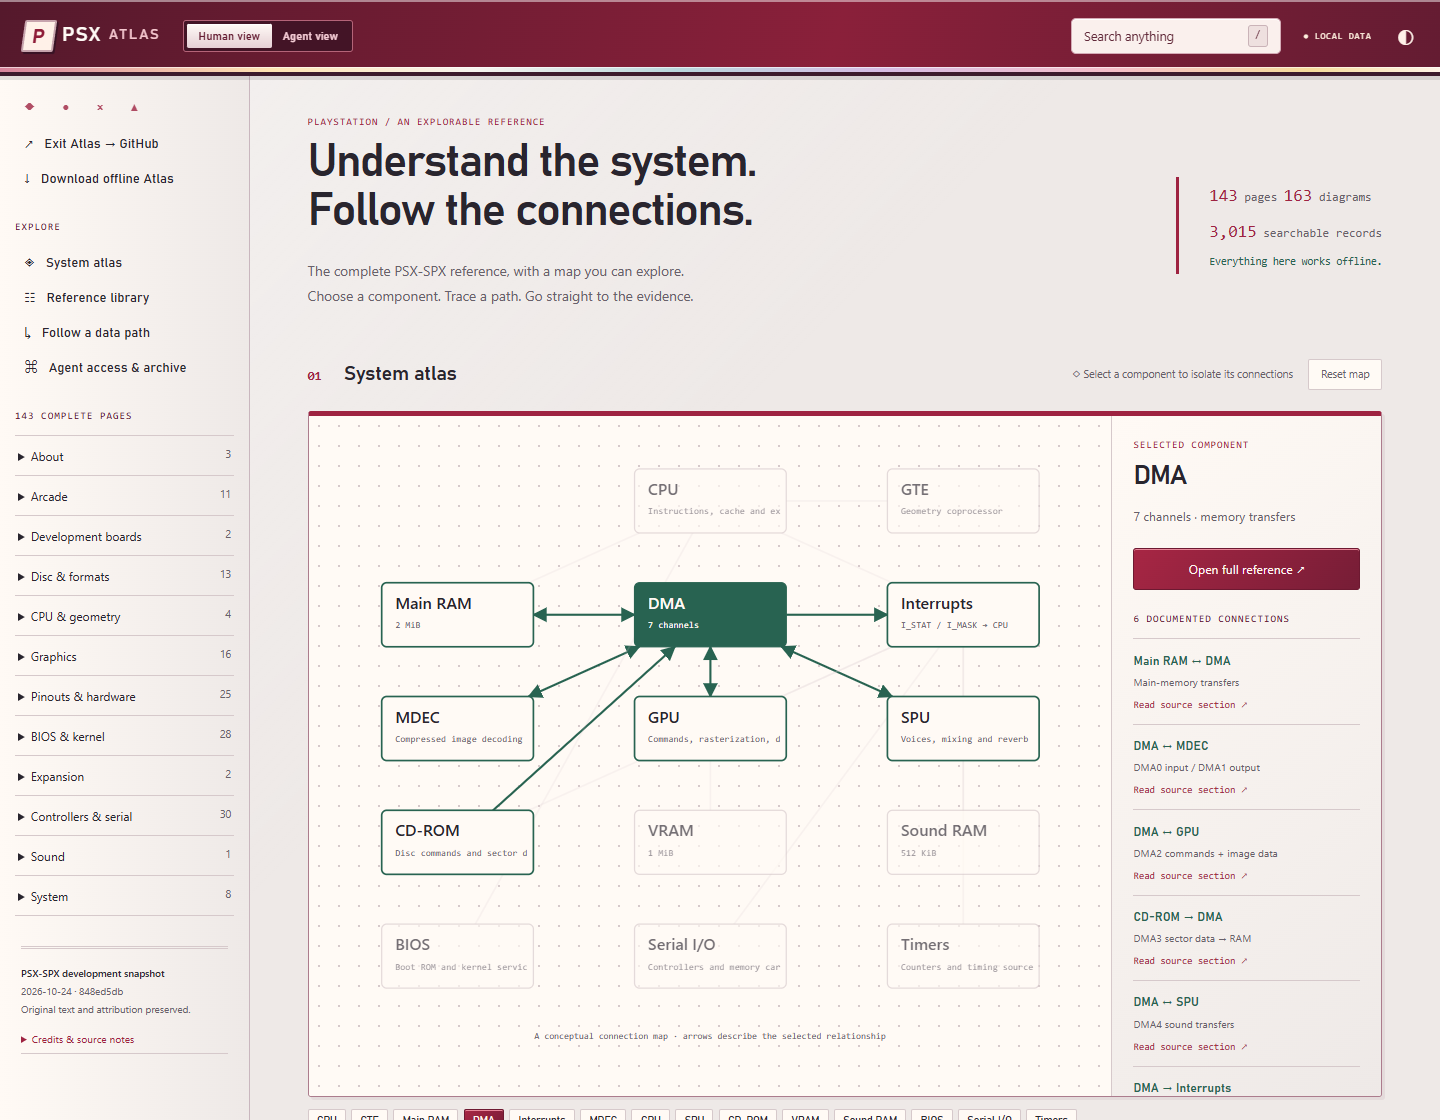
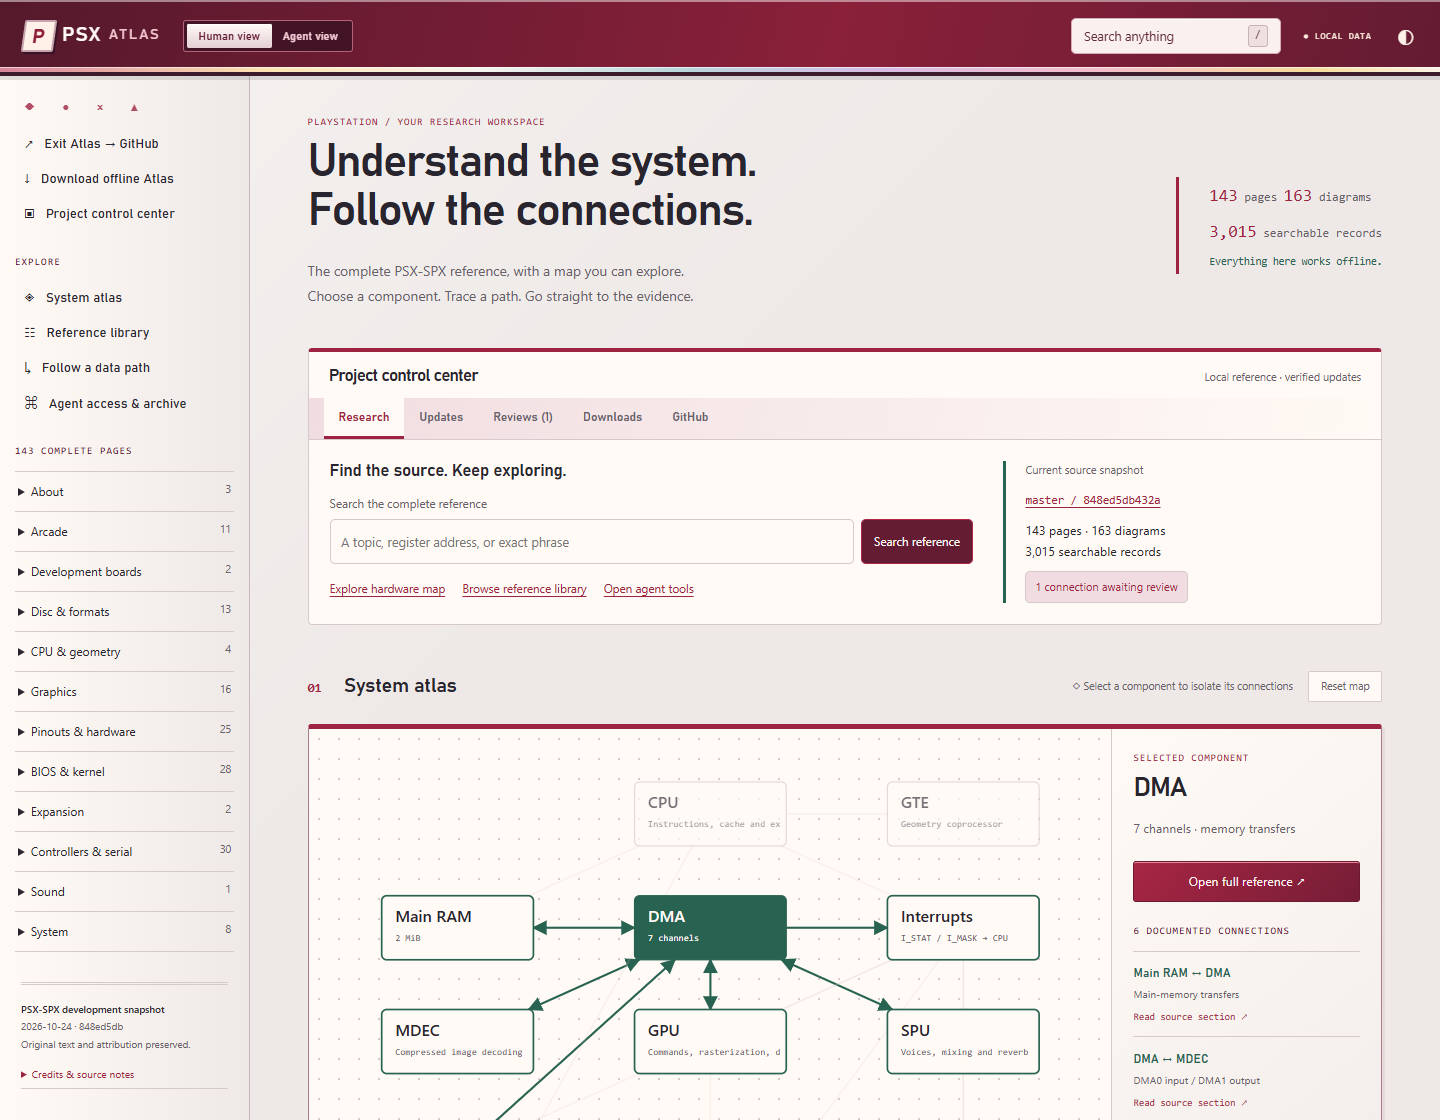
Refresh dashboard screenshots and launch directly into the control center

diff --git a/src/armor.css b/src/armor.css
@@ -25,7 +25,7 @@ main{padding-top:2.5rem}.eyebrow{color:var(--accent);letter-spacing:.12em;font-s
 .review-note{display:block;font-size:.68rem;color:var(--accent);border-left:2px solid var(--warm);padding-left:.5rem;margin-top:.35rem}
 
 /* A console-like project deck around the unchanged hardware map. */
-.control-center{margin:1.25rem 0 2.6rem;border:1px solid var(--line);border-top:4px solid var(--accent);border-radius:4px;background:var(--surface);box-shadow:0 2px 0 #fff5 inset;overflow:hidden}
+.control-center{scroll-margin-top:112px;margin:1.25rem 0 2.6rem;border:1px solid var(--line);border-top:4px solid var(--accent);border-radius:4px;background:var(--surface);box-shadow:0 2px 0 #fff5 inset;overflow:hidden}
 .control-heading{display:flex;align-items:center;justify-content:space-between;gap:1rem;padding:1rem 1.35rem .8rem}.control-heading h2{margin:0;font:600 1.1rem Bahnschrift,'Segoe UI',sans-serif}.control-policy{color:var(--muted);font-size:.72rem}
 .control-tabs{display:flex;gap:0;border-bottom:1px solid var(--line);padding:0 1rem;background:linear-gradient(100deg,var(--soft),var(--surface))}.control-tabs button{border:0;border-bottom:3px solid transparent;border-radius:0;background:transparent;color:var(--muted);font:600 .8rem Bahnschrift,'Segoe UI',sans-serif;padding:.8rem 1rem;white-space:nowrap}.control-tabs button[aria-selected=true]{color:var(--accent);border-bottom-color:var(--accent);background:var(--surface)}.control-tabs button:hover{color:var(--accent)}
 .control-panel{padding:1.4rem;min-width:0}.control-panel[hidden]{display:none!important}.control-panel h3{font:600 1.15rem Bahnschrift,'Segoe UI',sans-serif;letter-spacing:-.02em;margin:0 0 .7rem}.control-panel p{font-size:.83rem;line-height:1.7;margin:.6rem 0}.control-panel a{text-decoration:underline;text-underline-offset:3px}.control-panel code{overflow-wrap:anywhere;font-size:.78rem}.control-research{display:grid;grid-template-columns:1.8fr 1fr;gap:2rem}.control-research label{display:block;font-size:.78rem;color:var(--muted);margin:.8rem 0 .4rem}.control-search-row{display:flex;gap:.5rem}.control-search-row input{min-width:0;width:100%;font-size:.85rem}.control-search-row button{flex-shrink:0;background:var(--armor);color:var(--pearl);border:1px solid var(--armor-bright);font-size:.78rem;padding:.65rem .8rem}

diff --git a/README.md b/README.md
@@ -1,5 +1,5 @@
 <p align="center">
-  <a href="https://raiinman.github.io/PSX-Atlas/">
+  <a href="https://raiinman.github.io/PSX-Atlas/#control-center">
     <img src="docs/promo/psx-atlas-hero.png" width="100%" alt="PSX Atlas — the PlayStation hardware reference. Crimson armor, pearl trim and decorative motherboard artwork. Click to launch the Atlas.">
   </a>
 </p>
@@ -7,7 +7,7 @@
 <h1 align="center">PSX Atlas</h1>
 <p align="center"><strong>Your interactive PlayStation research control center. Fully offline.</strong></p>
 <p align="center">
-  <a href="https://raiinman.github.io/PSX-Atlas/"><strong>▶ LAUNCH PSX ATLAS</strong></a> &nbsp; · &nbsp;
+  <a href="https://raiinman.github.io/PSX-Atlas/#control-center"><strong>▶ LAUNCH PSX ATLAS</strong></a> &nbsp; · &nbsp;
   <a href="https://github.com/raiinman/PSX-Atlas/releases/latest"><strong>↓ DOWNLOAD OFFLINE</strong></a> &nbsp; · &nbsp;
   <a href="https://github.com/raiinman/PSX-Atlas/tree/main"><strong>⌘ VIEW SOURCE ON GITHUB</strong></a>
 </p>
@@ -19,9 +19,13 @@ The Atlas homepage is an **interactive project dashboard**: search the reference
 
 This is the repository's **README landing page**. The interactive app runs on **GitHub Pages**; click the banner or Launch button to use it. In the app, **Exit Atlas → GitHub** returns to the ordinary repository. GitHub's file browser stays available above this README.
 
-[![Actual PSX Atlas interface showing its original green hardware map, source-linked connections, topic library and red/pearl styling](docs/promo/atlas-interface.png)](https://raiinman.github.io/PSX-Atlas/)
+[![Actual PSX Atlas control center with Research, Updates, Reviews, Downloads and GitHub tabs above the preserved hardware map](docs/promo/atlas-interface.png)](https://raiinman.github.io/PSX-Atlas/#control-center)
 
-*Actual working Atlas interface. The armor artwork in the promotional banners is decorative; the source-linked map above is the real navigation model.*
+*Actual working control center. Research searches the local corpus; the original hardware map remains below it. The armor artwork in the promotional banners is decorative.*
+
+[![Actual Reviews panel showing the SPU ↔ Sound RAM evidence flag still awaiting review, with source and hash links](docs/promo/atlas-control-center-reviews.png)](https://raiinman.github.io/PSX-Atlas/#control-center)
+
+*The Reviews panel exposes the pending evidence without approving it or changing any connection.*
 
 | For people | For AI agents | For offline use |
 | --- | --- | --- |

diff --git a/docs/promo/README.md b/docs/promo/README.md
@@ -2,7 +2,8 @@
 
 - psx-atlas-hero.png: wide README hero, linked to the working Atlas.
 - psx-atlas-dual-reference.png: human/agent feature image, linked to Agent view.
-- atlas-interface.png: unmodified screenshot of the public working Atlas, captured 2026-10-24.
+- atlas-interface.png: refreshed screenshot of the public control center Research panel, captured 2026-10-24.
+- atlas-control-center-reviews.png: public Reviews panel showing the pending SPU evidence without approval, captured 2026-10-24.
 
 The generated artwork is decorative. Its circuitry, board and book are not evidence about PS1 hardware. Only the actual interface screenshot represents the product's UI. No graph connections or application flow were changed.
 
@@ -17,3 +18,6 @@ A **repository social preview** is a separate image used when someone shares the
 
 ## Configured GitHub social preview
 On 2026-10-24, psx-atlas-social.jpg was uploaded and saved through the repository General → Social preview settings. It is a 1774×887, 308,408-byte JPEG of the 2:1 banner adaptation. GitHub cropped the original 3:1 hero, so the adaptation adds vertical room and keeps all lettering visible. The original README hero is unchanged. The PNG master is psx-atlas-social-2x1.png; its final built-in image_gen edit prompt is in prompts.json.
+
+## Dashboard launch and screenshots
+The README Launch button, hero banner and interface screenshots link directly to https://raiinman.github.io/PSX-Atlas/#control-center. Repository About uses the same destination. Screenshots are direct browser captures of the working site, without compositing or edits. The dashboard anchor has room for the fixed header on desktop and mobile. Hardware metadata and evidence acceptance are unchanged. Root DOX ownership/index instructions remain applicable; no new ownership scope was introduced.

diff --git a/src/AGENTS.md b/src/AGENTS.md
@@ -19,3 +19,5 @@ No child documents.
 Navigation exposes an explicit Exit Atlas → GitHub link and offline-release download. These links navigate only on user activation; they add no remote runtime dependencies.
 
 The homepage project control center adds offline search and keyboard-accessible Research / Updates / Reviews / Downloads / GitHub panels around the unchanged hardware map. Snapshot status is explicitly not a live network check. Review panels expose evidence and citations, with no approval action.
+
+The control-center anchor reserves space for the fixed desktop/mobile header so direct Launch links reveal its heading and tabs. This scroll offset must not change map geometry or connection data.
